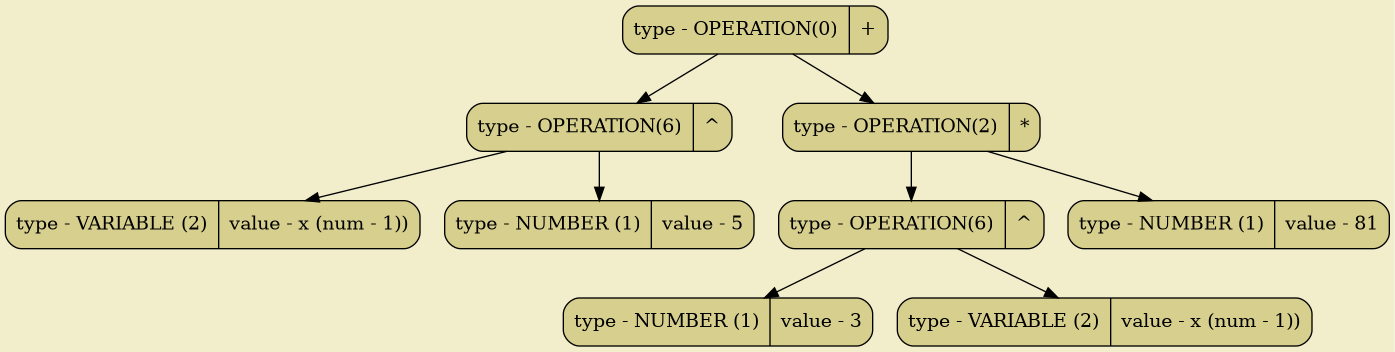
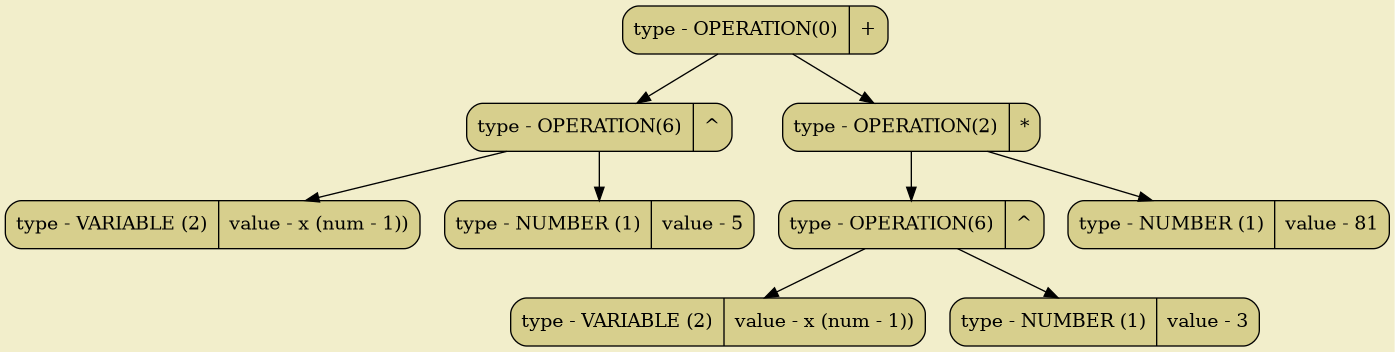
new node for num, oper, var

Changed region(s): [[0.3391, 0.8438, 0.9556, 1.0]]

diff --git a/get_math_task/token.cpp b/get_math_task/token.cpp
@@ -11,10 +11,11 @@
 const int NO_THIS_VAR = -1;
 
 
-static void pass_spaces(int* point_current_letter, char* arr_file_tree);
-static void get_word   (int* current_symbol, char* arr_file_tree, Token* token, VariableArr* all_var);
-static void get_num    (int* current_symbol, char* arr_file_tree, Token* token);
-static void get_oper   (int* current_symbol, char* arr_file_tree, Token* token);
+static void pass_spaces       (int* point_current_letter, char* arr_file_tree);
+static void get_word          (int* current_symbol, char* arr_file_tree, Token* token, VariableArr* all_var);
+static void get_num           (int* current_symbol, char* arr_file_tree, Token* token);
+static void get_oper          (int* current_symbol, char* arr_file_tree, Token* token);
+static bool find_and_create_op(Token* token, char* name);
 
 
 
@@ -42,8 +43,7 @@ static void get_num(int* current_symbol, char* arr_file_tree, Token* token)
         (*current_symbol)++;
     }
 
-
-    token->array[token->size] = create_new_node(NUMBER, val_num, NULL, NULL);
+    token->array[token->size] = _NUM(val_num);
     token->size++;
 
 }
@@ -66,19 +66,21 @@ static void get_word(int* current_symbol, char* arr_file_tree, Token* token, Var
 
 
     // Is it Operation?
-    bool is_oper = false;
-    for (int i = 0; i < LEN_STRUCT_OP_ARR; i++)
-    {
-        if (strcmp(op_arr[i].name, name) == 0)
-        {
-            token->array[token->size] = create_new_node(OPERATION, op_arr[i].num, NULL, NULL);
-            token->size++;
+    // bool is_oper = false;
+    // for (int i = 0; i < LEN_STRUCT_OP_ARR; i++)
+    // {
+    //     if (strcmp(op_arr[i].name, name) == 0)
+    //     {
+    //         token->array[token->size] = create_new_node_op(OPERATION, op_arr[i].num, NULL, NULL);
+    //         token->size++;
 
-            is_oper = true;
+    //         is_oper = true;
 
-            break; 
-        }
-    }
+    //         break; 
+    //     }
+    // }
+    bool is_oper = find_and_create_op(token, name);
+
 
     // It is Variable
     if (!is_oper)
@@ -87,7 +89,7 @@ static void get_word(int* current_symbol, char* arr_file_tree, Token* token, Var
         int num_var = find_variable(name, all_var);
         if  (num_var == NO_THIS_VAR) num_var = insert_new_variable(name, all_var);
 
-        token->array[token->size] = create_new_node(VARIABLE, num_var, NULL, NULL);
+        token->array[token->size] = _VAR(num_var);
         token->size++;
 
     }
@@ -101,20 +103,22 @@ static void get_oper(int* current_symbol, char* arr_file_tree, Token* token)
     op[0] = arr_file_tree[*current_symbol];
     (*current_symbol)++;
 
-    bool is_oper = false;
+    bool is_oper = find_and_create_op(token, op);
 
-    for (int i = 0; i < LEN_STRUCT_OP_ARR; i++)
-    {
-        if (strcmp(op_arr[i].name, op) == 0)
-        {
-            token->array[token->size] = create_new_node(OPERATION, op_arr[i].num, NULL, NULL);
-            token->size++;
+    // bool is_oper = false;
 
-            is_oper = true;
+    // for (int i = 0; i < LEN_STRUCT_OP_ARR; i++)
+    // {
+    //     if (strcmp(op_arr[i].name, op) == 0)
+    //     {
+    //         token->array[token->size] = create_new_node_op(OPERATION, op_arr[i].num, NULL, NULL);
+    //         token->size++;
 
-            break; 
-        }
-    }
+    //         is_oper = true;
+
+    //         break; 
+    //     }
+    // }
     if (!is_oper) printf("SYNTAX ERROR\n");
 }
 
@@ -178,6 +182,27 @@ int insert_new_variable(char* var_name, VariableArr* all_var)
     all_var->arr[all_var->size - 1].name = var_name;
 
     return (int)all_var->size;
+}
+
+
+static bool find_and_create_op(Token* token, char* name)
+{
+    bool is_oper = false;
+
+    for (int i = 0; i < LEN_STRUCT_OP_ARR; i++)
+    {
+        if (strcmp(op_arr[i].name, name) == 0)
+        {
+            token->array[token->size] = create_new_node_op(OPERATION, op_arr[i].num, NULL, NULL);
+            token->size++;
+
+            is_oper = true;
+
+            break; 
+        }
+    }
+
+    return is_oper;
 }
 
 

diff --git a/tree_s__commands/tree_commands.cpp b/tree_s__commands/tree_commands.cpp
@@ -5,21 +5,65 @@
 
 #include "../math/math_commands.h"
 
-Node* create_new_node(TypeNode type, Elem_t num , Node* left, Node* right) // TODO: what if elem t = char*
+// Node* create_new_node(TypeNode type, Elem_t num , Node* left, Node* right) // TODO: what if elem t = char*
+// {
+//     Node* new_node = (Node*) calloc(1, sizeof(Node));
+//     // *new_node = {type, val, left, right};
+//     new_node->type = type;
+
+//     if      (type == NUMBER)    new_node->value.num     = num;
+//     else if (type == VARIABLE)  new_node->value.var_num = (int) num;
+//     else if (type == OPERATION) new_node->value.op_num  = (AllOperations) num; // is it norm hahahahah?
+
+//     new_node->left  = left;
+//     new_node->right = right;
+
+//     return new_node;
+// }
+
+Node* create_new_node_num(TypeNode type, Elem_t num, Node* left, Node* right) 
 {
     Node* new_node = (Node*) calloc(1, sizeof(Node));
-    // *new_node = {type, val, left, right};
-    new_node->type = type;
 
-    if      (type == NUMBER)    new_node->value.num     = num;
-    else if (type == VARIABLE)  new_node->value.var_num = (int) num;
-    else if (type == OPERATION) new_node->value.op_num  = (AllOperations) num; // is it norm hahahahah?
+    // Лучше так (один шаблон) или прописывать как есть? (не передавать type, left, right, а сделать сразу NULL)?
 
-    new_node->left  = left;
-    new_node->right = right;
+    new_node->type      = NUMBER;
+    new_node->value.num = num;
+    new_node->left      = left;
+    new_node->right     = right;
 
     return new_node;
 }
+
+
+Node* create_new_node_var(TypeNode type, int var_num, Node* left, Node* right) 
+{
+    Node* new_node = (Node*) calloc(1, sizeof(Node));
+
+    // Лучше так (один шаблон) или прописывать как есть? (не передавать type, left, right, а сделать сразу NULL)?
+
+    new_node->type          = VARIABLE;
+    new_node->value.var_num = var_num;
+    new_node->left          = left;
+    new_node->right         = right;
+    
+    return new_node;
+}
+
+
+Node* create_new_node_op(TypeNode type, AllOperations op_num, Node* left, Node* right) 
+{
+    Node* new_node = (Node*) calloc(1, sizeof(Node));
+
+    new_node->type         = OPERATION;
+    new_node->value.op_num = op_num;
+    new_node->left         = left;
+    new_node->right        = right;
+    
+    return new_node;
+}
+
+
 
 
 TypeNode solve_subtree(Node* current_node, int* diference)

diff --git a/math/diff_formuls.h b/math/diff_formuls.h
@@ -4,22 +4,22 @@
 #include "../differenciator_h.h" 
 
 
-#define _LEFT  current_node->left
-#define _RIGHT current_node->right
+// #define _LEFT  current_node->left
+// #define _RIGHT current_node->right
 
-#define _NUM(num)         create_new_node(NUMBER,    num,  NULL, NULL)
+// #define _NUM(num)         create_new_node_num(NUMBER,    num,  NULL, NULL)
 
-#define _ADD(left, right) create_new_node(OPERATION, ADD, left, right)
-#define _SUB(left, right) create_new_node(OPERATION, SUB, left, right)
-#define _MUL(left, right) create_new_node(OPERATION, MUL, left, right)
-#define _DIV(left, right) create_new_node(OPERATION, DIV, left, right)
-#define _POW(left, right) create_new_node(OPERATION, POW, left, right)
-#define _SIN(arg)         create_new_node(OPERATION, SIN, NULL, arg)
-#define _COS(arg)         create_new_node(OPERATION, COS, NULL, arg)
-#define _LOG(arg)         create_new_node(OPERATION, LOG, NULL, arg)
+// #define _ADD(left, right) create_new_node_op (OPERATION, ADD, left, right)
+// #define _SUB(left, right) create_new_node_op (OPERATION, SUB, left, right)
+// #define _MUL(left, right) create_new_node_op (OPERATION, MUL, left, right)
+// #define _DIV(left, right) create_new_node_op (OPERATION, DIV, left, right)
+// #define _POW(left, right) create_new_node_op (OPERATION, POW, left, right)
+// #define _SIN(arg)         create_new_node_op (OPERATION, SIN, NULL, arg)
+// #define _COS(arg)         create_new_node_op (OPERATION, COS, NULL, arg)
+// #define _LOG(arg)         create_new_node_op (OPERATION, LOG, NULL, arg)
 
-#define _DIFF(arg)        diff(arg, file, all_var)
-#define _COPY(arg)        copy_branch(arg)
+// #define _DIFF(arg)        diff       (arg, file, all_var)
+// #define _COPY(arg)        copy_branch(arg)
 
 
 

diff --git a/tree_s__commands/tree_commands.h b/tree_s__commands/tree_commands.h
@@ -3,7 +3,34 @@
 
 #include "../differenciator_h.h"
 
-Node* create_new_node(TypeNode type, Elem_t num, Node* left, Node* right);
+
+
+#define _LEFT  current_node->left
+#define _RIGHT current_node->right
+
+#define _NUM(num)         create_new_node_num(NUMBER,    num,  NULL, NULL)
+#define _VAR(var_num)     create_new_node_var(VARIABLE,  var_num,  NULL, NULL)
+
+#define _ADD(left, right) create_new_node_op (OPERATION, ADD, left, right)
+#define _SUB(left, right) create_new_node_op (OPERATION, SUB, left, right)
+#define _MUL(left, right) create_new_node_op (OPERATION, MUL, left, right)
+#define _DIV(left, right) create_new_node_op (OPERATION, DIV, left, right)
+#define _POW(left, right) create_new_node_op (OPERATION, POW, left, right)
+#define _SIN(arg)         create_new_node_op (OPERATION, SIN, NULL, arg)
+#define _COS(arg)         create_new_node_op (OPERATION, COS, NULL, arg)
+#define _LOG(arg)         create_new_node_op (OPERATION, LOG, NULL, arg)
+
+#define _DIFF(arg)        diff       (arg, file, all_var)
+#define _COPY(arg)        copy_branch(arg)
+
+
+
+
+// Node* create_new_node(TypeNode type, Elem_t num, Node* left, Node* right);
+Node* create_new_node_num(TypeNode type, Elem_t num,           Node* left, Node* right); 
+Node* create_new_node_var(TypeNode type, int var_num,          Node* left, Node* right); 
+Node* create_new_node_op (TypeNode type, AllOperations op_num, Node* left, Node* right); 
+
 
 
 void solve(Node* current_node);

diff --git a/math/diff_formuls.cpp b/math/diff_formuls.cpp
@@ -178,14 +178,9 @@ static Node* copy_branch(Node* current_node)
 {
     if (current_node == NULL) return NULL;
 
-
-    // ????????????????????????????
     Elem_t val = 0;
-    if      (current_node->type == NUMBER)    val = current_node->value.num;
-    else if (current_node->type == VARIABLE)  val = (Elem_t) current_node->value.var_num;
-    else if (current_node->type == OPERATION) val = (Elem_t) current_node->value.op_num;
-
-    return create_new_node(current_node->type, val, copy_branch(current_node->left), copy_branch(current_node->right));
-    
+    if (current_node->type == NUMBER)   return create_new_node_num(current_node->type, current_node->value.num,     copy_branch(current_node->left), copy_branch(current_node->right));
+    if (current_node->type == VARIABLE) return create_new_node_var(current_node->type, current_node->value.var_num, copy_branch(current_node->left), copy_branch(current_node->right));
+    else                                return create_new_node_op (current_node->type, current_node->value.op_num,  copy_branch(current_node->left), copy_branch(current_node->right));
 
 }

diff --git a/all_dumps/tex_files/tex.tex b/all_dumps/tex_files/tex.tex
@@ -1,26 +1,26 @@
-$ d(((x)^5+(3)^x \cdot 81)) = d((x)^5) + d((3)^x \cdot 81)$
+$ d(((x)^5+(x)^3 \cdot 81)) = d((x)^5) + d((x)^3 \cdot 81)$
 
 Посчитаем составные части:
 
-$ d((3)^x \cdot 81) = d((3)^x) \cdot (81) + d(81) \cdot ((3)^x)$
+$ d((x)^3 \cdot 81) = d((x)^3) \cdot (81) + d(81) \cdot ((x)^3)$
 
 Посчитаем составные части:
 
 $ d(81) = 0$
 
-$ d((3)^x) = x \cdot (3)^(x - 1) \cdot d(3)$
+$ d((x)^3) = 3 \cdot (x)^(3 - 1) \cdot d(x)$
 
 Посчитаем составные части:
 
-$ d(3) = 0$
+$ d(x) = 1$
 
 Получилось:
 
-$ d((3)^x) = 0$
+$ d((x)^3) = 3 \cdot (x)^2$
 
 Получилось:
 
-$ d((3)^x \cdot 81) = 0$
+$ d((x)^3 \cdot 81) = 3 \cdot (x)^2 \cdot 81$
 
 $ d((x)^5) = 5 \cdot (x)^(5 - 1) \cdot d(x)$
 
@@ -34,5 +34,5 @@ $ d((x)^5) = 5 \cdot (x)^4$
 
 Получилось:
 
-$ d(((x)^5+(3)^x \cdot 81)) = 5 \cdot (x)^4$
+$ d(((x)^5+(x)^3 \cdot 81)) = (5 \cdot (x)^4+3 \cdot (x)^2 \cdot 81)$
 

diff --git a/math/differentiation.cpp b/math/differentiation.cpp
@@ -17,7 +17,7 @@ Node* diff(Node* current_node, FILE* file, VariableArr* all_var)
         {
             tex_dump_num(file, current_node, all_var);
 
-            Node* diff_node = create_new_node(NUMBER, 0, NULL, NULL);
+            Node* diff_node = _NUM(0);
             
             return diff_node;
         }
@@ -26,7 +26,7 @@ Node* diff(Node* current_node, FILE* file, VariableArr* all_var)
         {
             tex_dump_var(file, current_node, all_var);
 
-            Node* diff_node = create_new_node(NUMBER, 1, NULL, NULL);
+            Node* diff_node = _NUM(1);
 
             return diff_node;
         }
